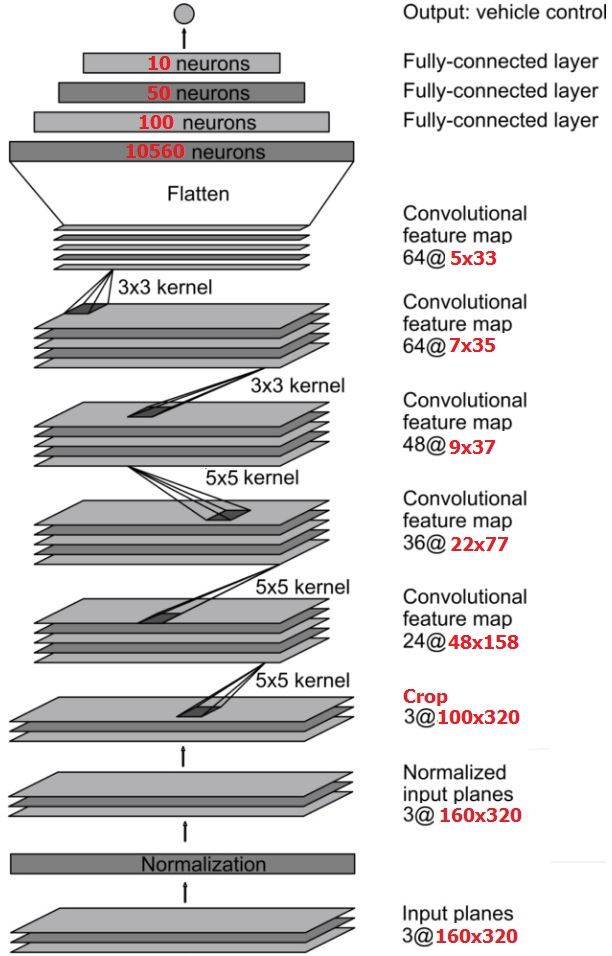
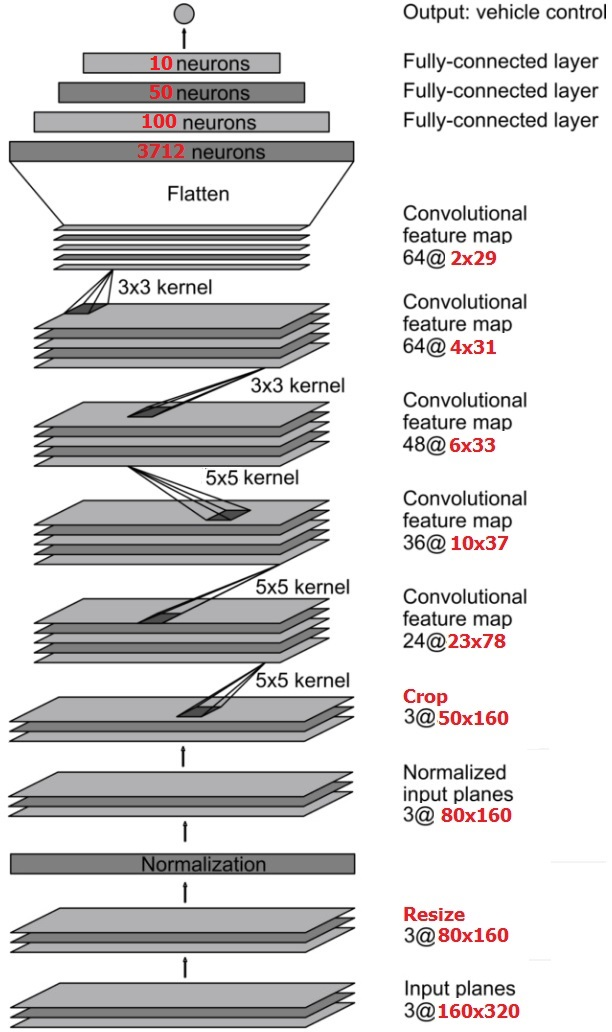
Updated for new shapes

diff --git a/writeup/README.md b/writeup/README.md
@@ -144,22 +144,23 @@ My final model:
 | Layer         		| Description		        						|
 |:---------------------:|:-------------------------------------------------:|
 | Input         		| 160x320x3 BGR image 								|
+| Resize         		| 80x160x3 BGR image 								|
 | Lambda 		     	| Image normalized with 0 mean 						|
-| Cropping2D	     	| Outputs 100x320x3 								|
-| Convolution	     	| 2x2 stride, 5x5 filter, valid, outputs 48x158x24	|
+| Cropping2D	     	| Outputs 50x160x3 								|
+| Convolution	     	| 2x2 stride, 5x5 filter, valid, outputs 23x78x24	|
 | RELU					| 													|
 | SpatialDropout2D 		| 80% keep probability 								|
-| Convolution	     	| 2x2 stride, 5x5 filter, valid, outputs 22x77x36 	|
+| Convolution	     	| 2x2 stride, 5x5 filter, valid, outputs 10x37x36 	|
 | RELU					| 													|
 | SpatialDropout2D 		| 80% keep probability 								|
-| Convolution	     	| 2x2 stride, 3x3 filter, valid, outputs 9x37x48 	|
+| Convolution	     	| 2x2 stride, 3x3 filter, valid, outputs 6x33x48 	|
 | RELU					| 													|
 | SpatialDropout2D 		| 80% keep probability 								|
-| Convolution	     	| 1x1 stride, 3x3 filter, valid, outputs 7x35x64 	|
+| Convolution	     	| 1x1 stride, 3x3 filter, valid, outputs 4x31x64 	|
 | RELU					| 													|
-| Convolution	     	| 1x1 stride, 3x3 filter, valid, outputs 5x33x64 	|
+| Convolution	     	| 1x1 stride, 3x3 filter, valid, outputs 2x29x64 	|
 | RELU					| 													|
-| Flatten				| Outputs 10560x1									|
+| Flatten				| Outputs 3712x1									|
 | Fully connected 		| Outputs 100x1 									|
 | Dropout				| 50% keep probability 								|
 | Fully connected 		| Outputs 50x1 										|
